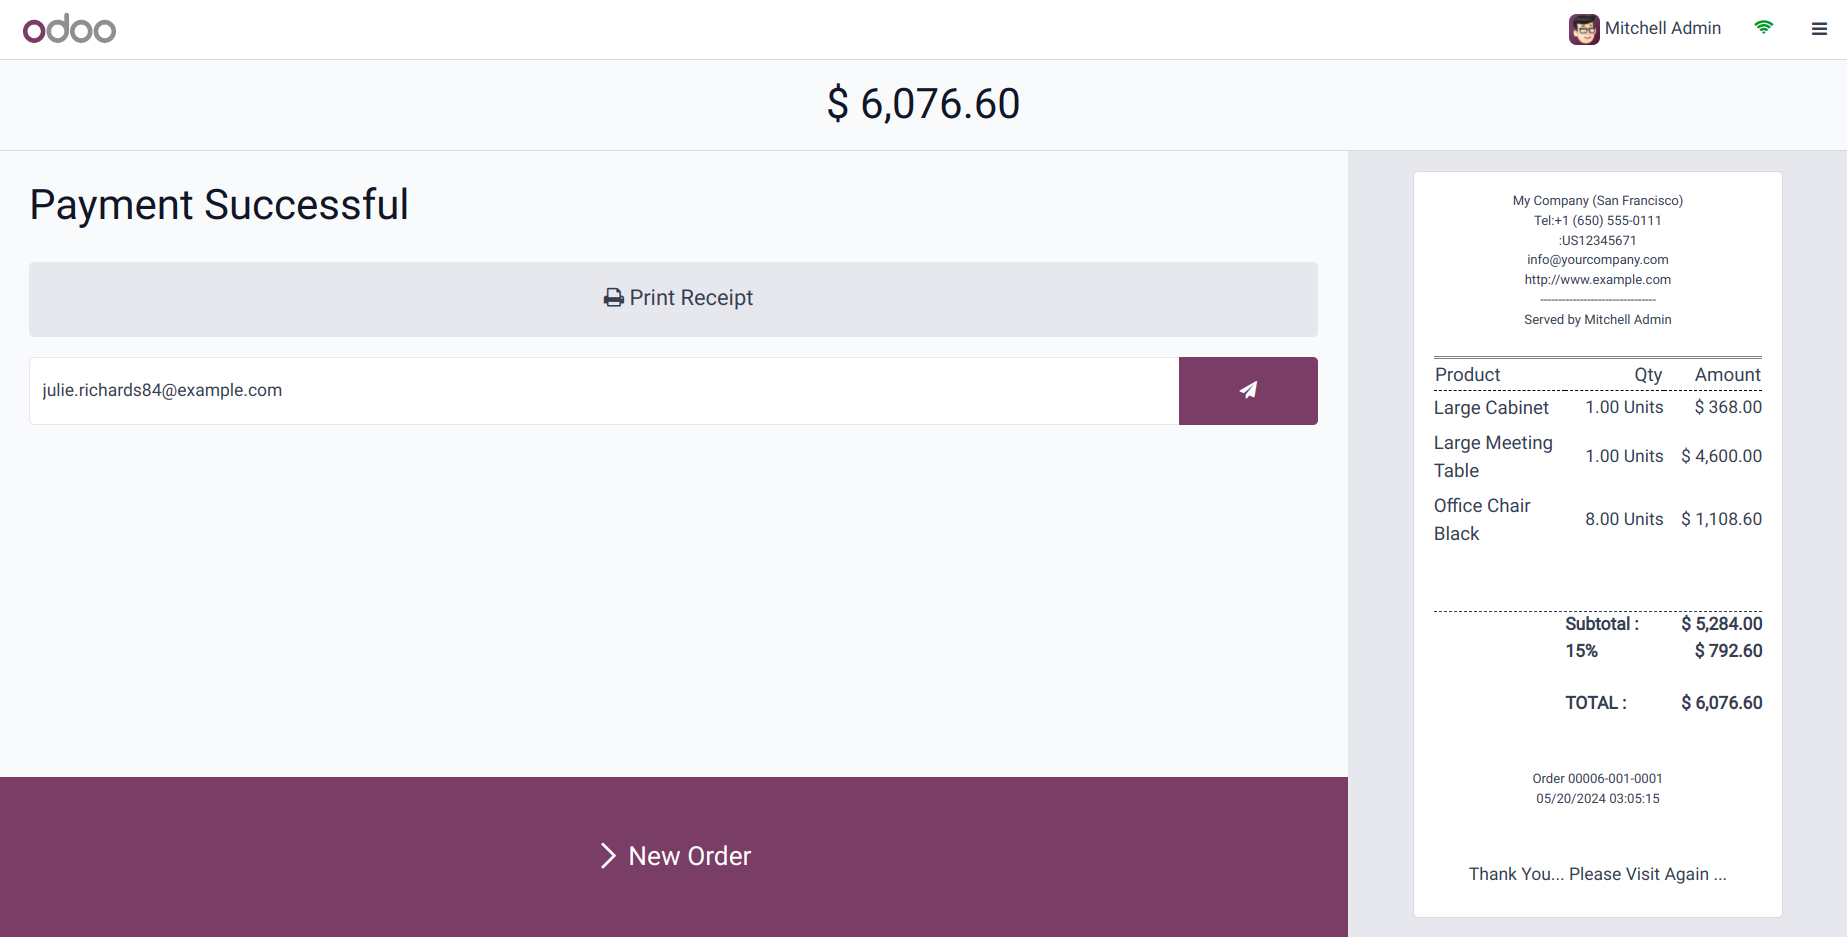
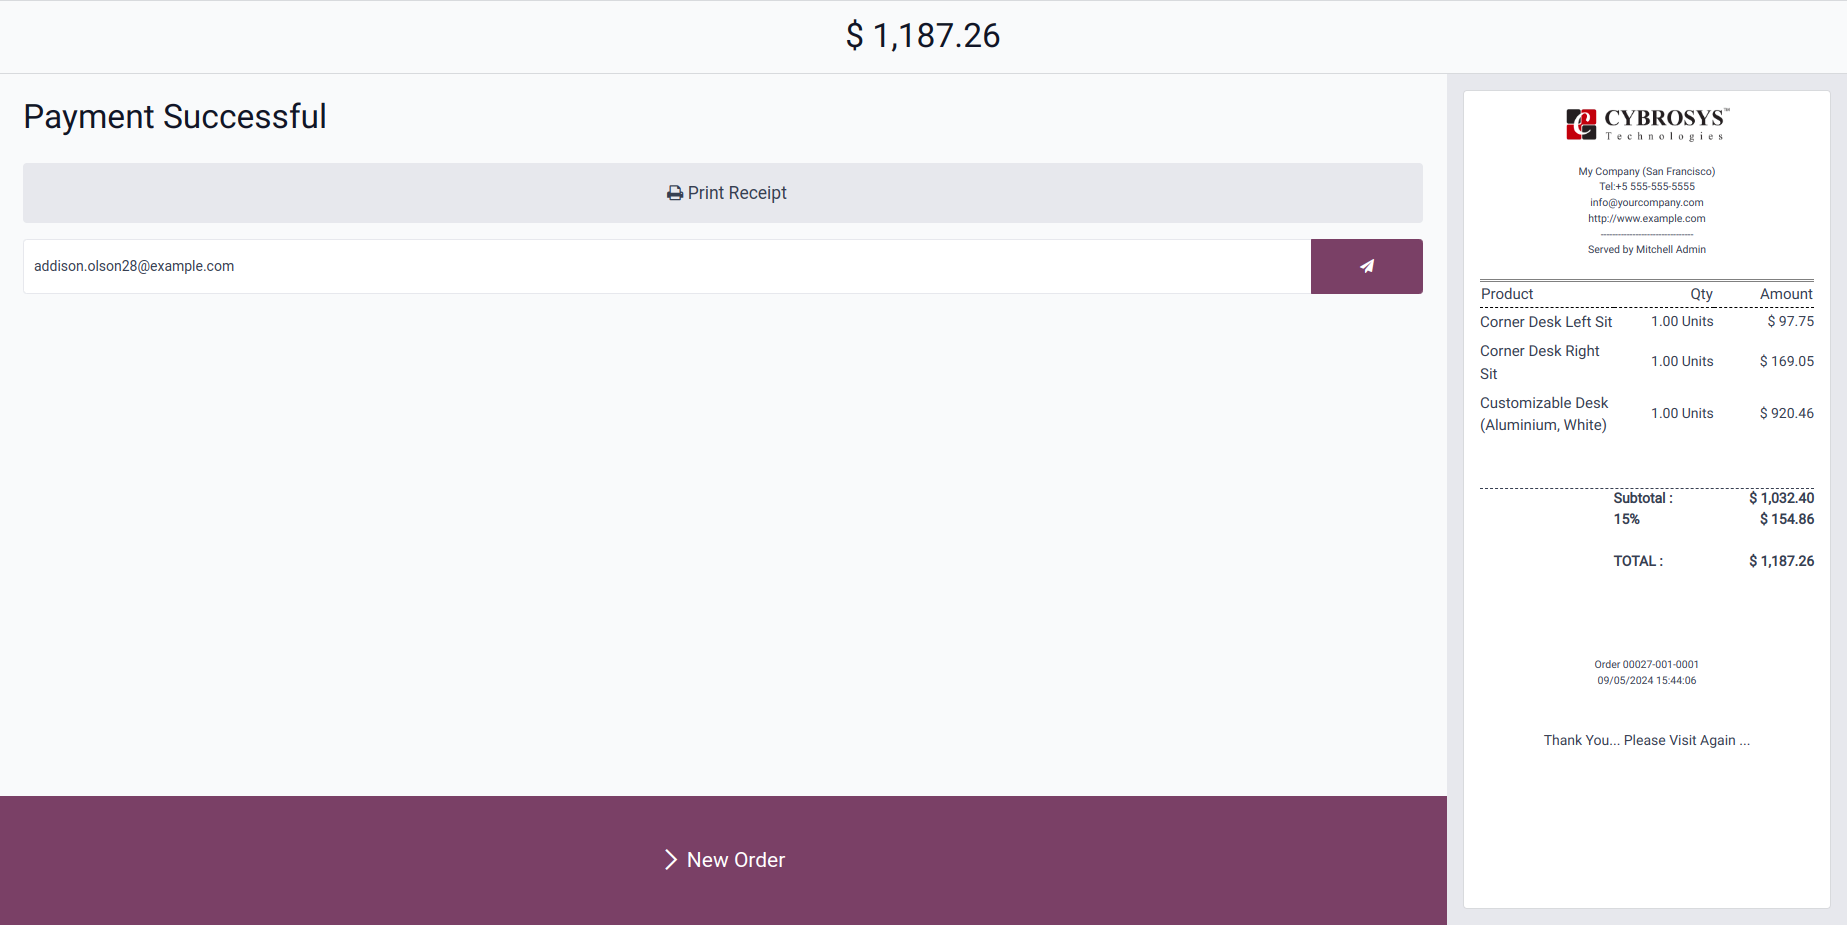
Sep 06: [FIX] Bug Fixed 'custom_receipts_for_pos'

diff --git a/custom_receipts_for_pos/models/pos_config.py b/custom_receipts_for_pos/models/pos_config.py
@@ -34,6 +34,8 @@ class PosConfig(models.Model):
                                      help='Choose any receipt design')
     design_receipt = fields.Text(related='receipt_design.design_receipt',
                                  string='Receipt XML')
+    logo = fields.Binary(related='company_id.logo', string='Logo',
+                         readonly=False)
     is_custom_receipt = fields.Boolean(string='Is Custom Receipt',
                                        help='Indicates the receipt  design is '
                                             'custom or not')

diff --git a/custom_receipts_for_pos/__manifest__.py b/custom_receipts_for_pos/__manifest__.py
@@ -22,7 +22,7 @@
 ################################################################################
 {
     'name': 'POS Receipt Design',
-    'version': '17.0.1.0.4',
+    'version': '17.0.1.0.5',
     'category': 'Point of Sale',
     'summary': "POS Receipt, Receipt Design, POS Receipt Template, Design "
                "Report, Custom Receipt, POS Report, Customise Receipt, Odoo17, "

diff --git a/custom_receipts_for_pos/models/pos_receipt.py b/custom_receipts_for_pos/models/pos_receipt.py
@@ -20,7 +20,7 @@
 #    along with this program.  If not, see <https://www.gnu.org/licenses/>.
 #
 ################################################################################
-from odoo import fields, models
+from odoo import api, fields, models
 
 
 class PosReceipt(models.Model):

diff --git a/custom_receipts_for_pos/models/pos_session.py b/custom_receipts_for_pos/models/pos_session.py
@@ -44,7 +44,6 @@ class PosSession(models.Model):
         return {
             'search_params': {
                 'fields': ['design_receipt', 'name'],
-
             },
         }
 

diff --git a/custom_receipts_for_pos/doc/RELEASE_NOTES.md b/custom_receipts_for_pos/doc/RELEASE_NOTES.md
@@ -25,3 +25,8 @@
 #### Version 17.0.1.0.4
 ##### BUGFIX
 - Fixed the missing products and amount details in the pos receipts from ticket screen.
+
+#### 05.09.2024
+#### Version 17.0.1.0.5
+##### BUGFIX
+- Fixed the missing company logo in the pos receipts when printing.
